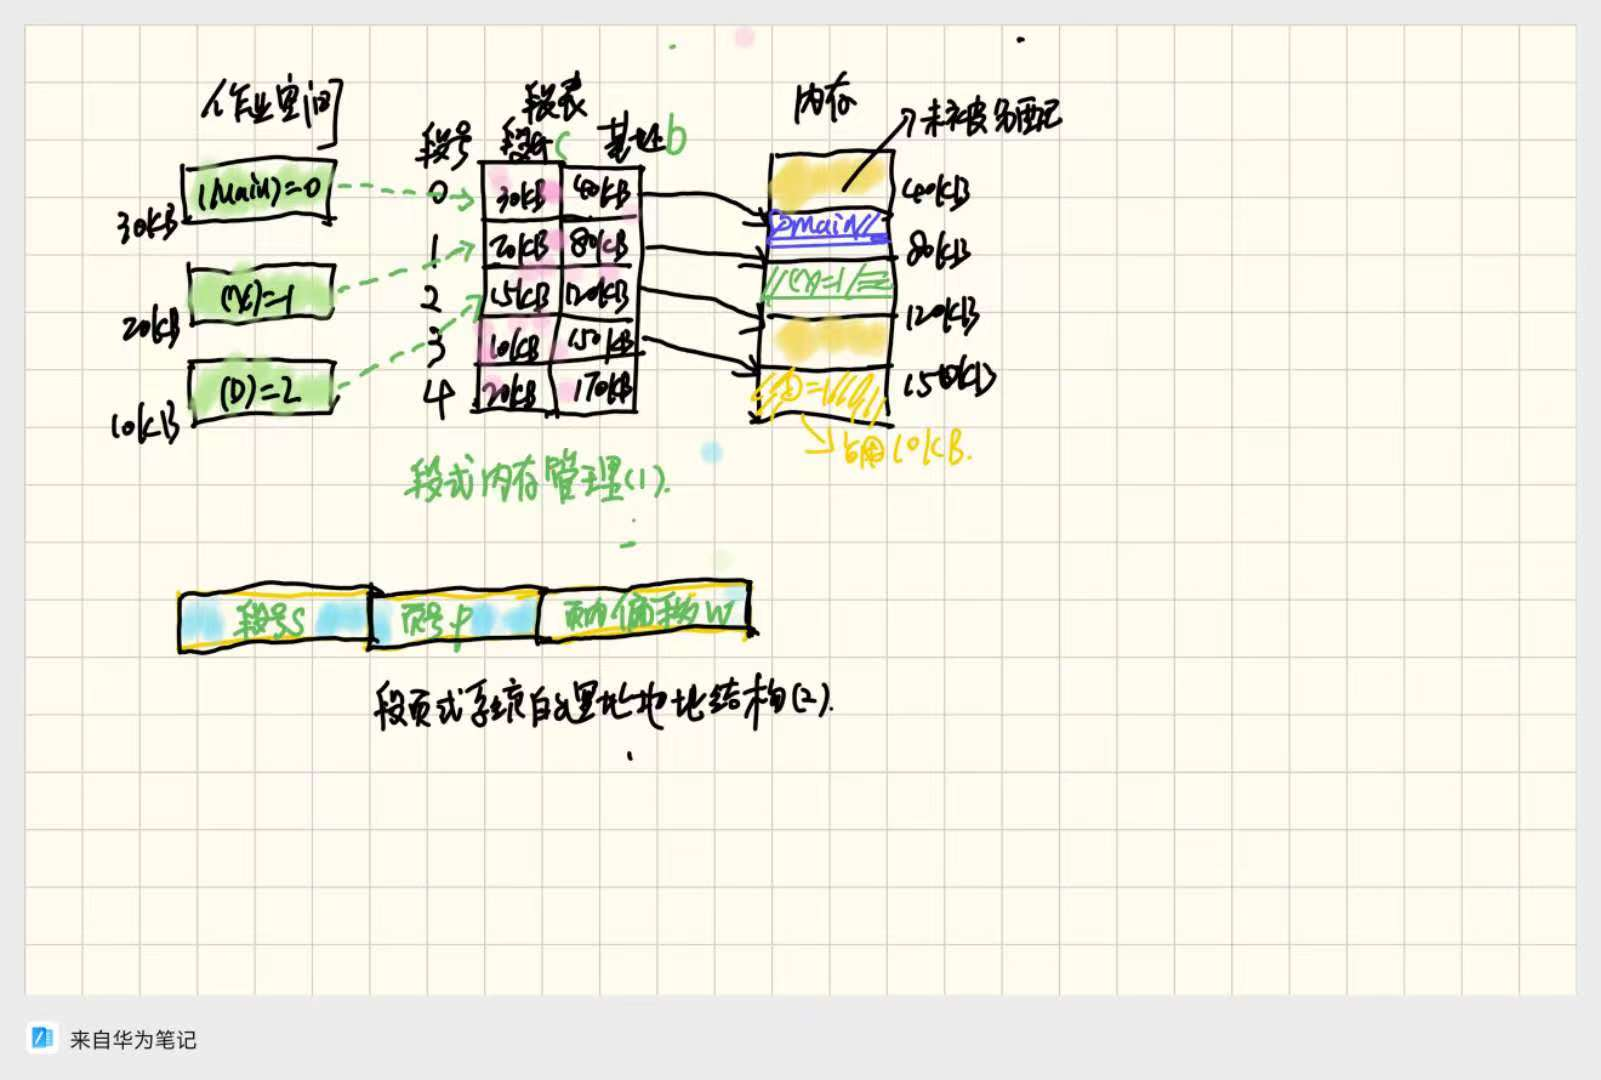
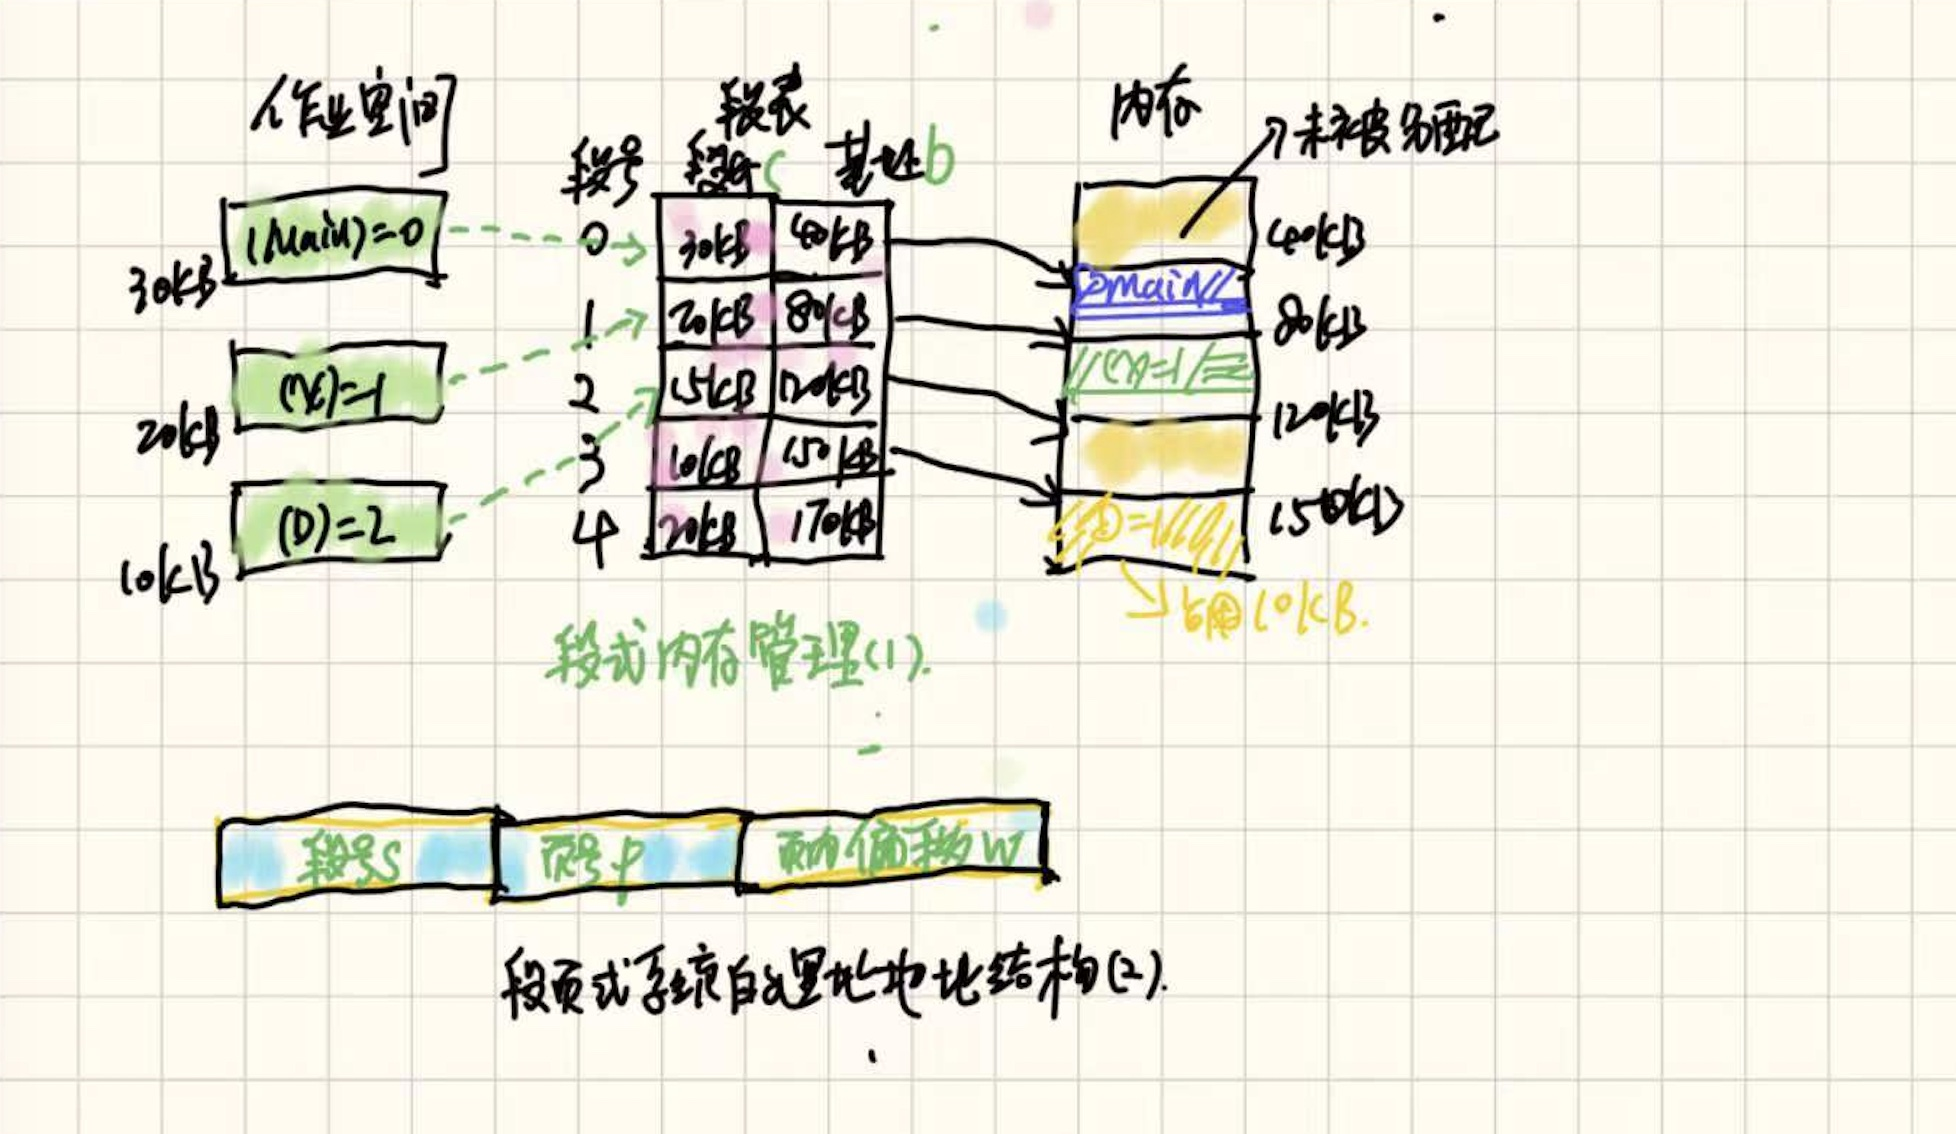
修改内存管理图片大小，调整markdown样式内容

diff --git a/README.md b/README.md
@@ -63,7 +63,7 @@ S5() { ...; P(c); P(d); ..; }
 
 基本分页存储管理方式（含二级分页）：
 
-<img src="./reference-media/OS页式数据管理.jpg" alt="process-status-transition" width="630px" />
+<img src="./reference-media/OS页式数据管理.jpg" alt="process-status-transition" width="650px" />
 
 固定分区会产生内部碎片，动态分区会产生外部碎片，都会产生内存碎片。分页的思想，将主存空间划分大小相等且固定的块，块相对较小，作为主存的基本单位。引入二级分页，主要是为了避免页表项太多，占用过多内存空间。
 
@@ -77,7 +77,7 @@ S5() { ...; P(c); P(d); ..; }
 
 基本分段存储管理方式及段页式：
 
-<img src="./reference-media/OS段式内存管理.jpg" alt="process-status-transition" width="630px" />
+<img src="./reference-media/OS段式内存管理.jpg" alt="process-status-transition" width="650px" />
 
 分页管理方式是从计算机的角度考虑设计，目的是提高内存利用率，分段管理方式的提出则考虑了用户和程序员，以满足编程、信息共享保护。分段内存管理的基本概念：
 
